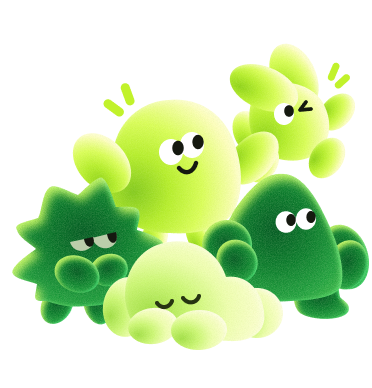
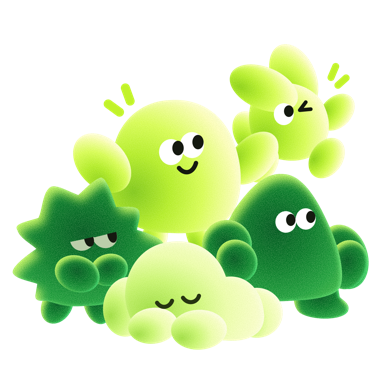
chore: 고해상도 에셋 추가와 글로우 파일 이름 정리

diff --git a/frontend/lib/core/design/app_assets.dart b/frontend/lib/core/design/app_assets.dart
@@ -11,11 +11,13 @@ abstract final class AppAssets {
   static const String heartSoftLimeIcon = '$_icons/heart_soft_lime.png';
   static const String sparklesSoftLimeIcon = '$_icons/sparkles_soft_lime.png';
 
-  static const String glowSmall = '$_images/glow_1.svg';
-  static const String glowMedium = '$_images/glow_2.svg';
-  static const String glowLarge = '$_images/glow_3.svg';
-  static const String glowIntroductionTop = '$_images/glow_6.png';
-  static const String glowIntroductionBottom = '$_images/glow_7.png';
+  static const String glowSmall = '$_images/welcome_glow_small.svg';
+  static const String glowMedium = '$_images/welcome_glow_medium.svg';
+  static const String glowLarge = '$_images/welcome_glow_large.svg';
+  static const String glowIntroductionTop =
+      '$_images/introduction_glow_top.png';
+  static const String glowIntroductionBottom =
+      '$_images/introduction_glow_bottom.png';
 
   static const String teeqCharactersIllustration =
       '$_images/teeq_characters.png';
